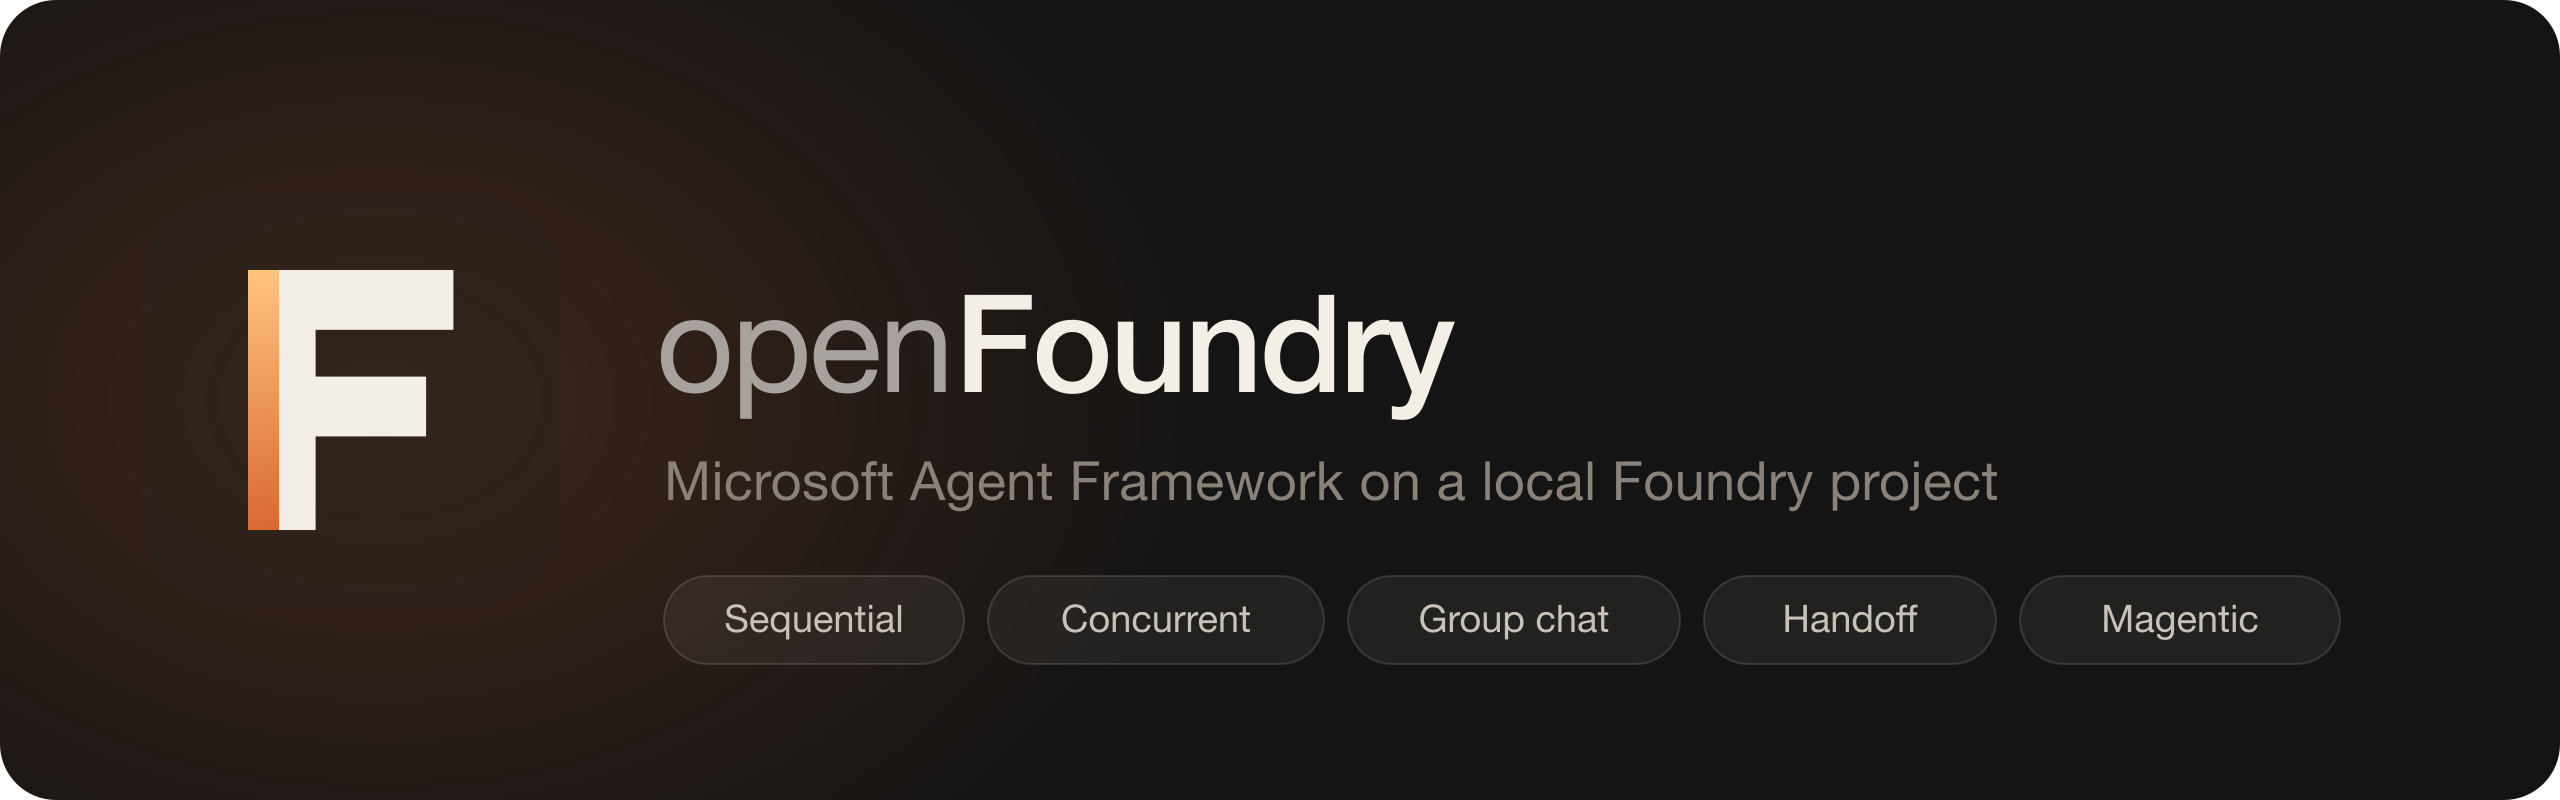
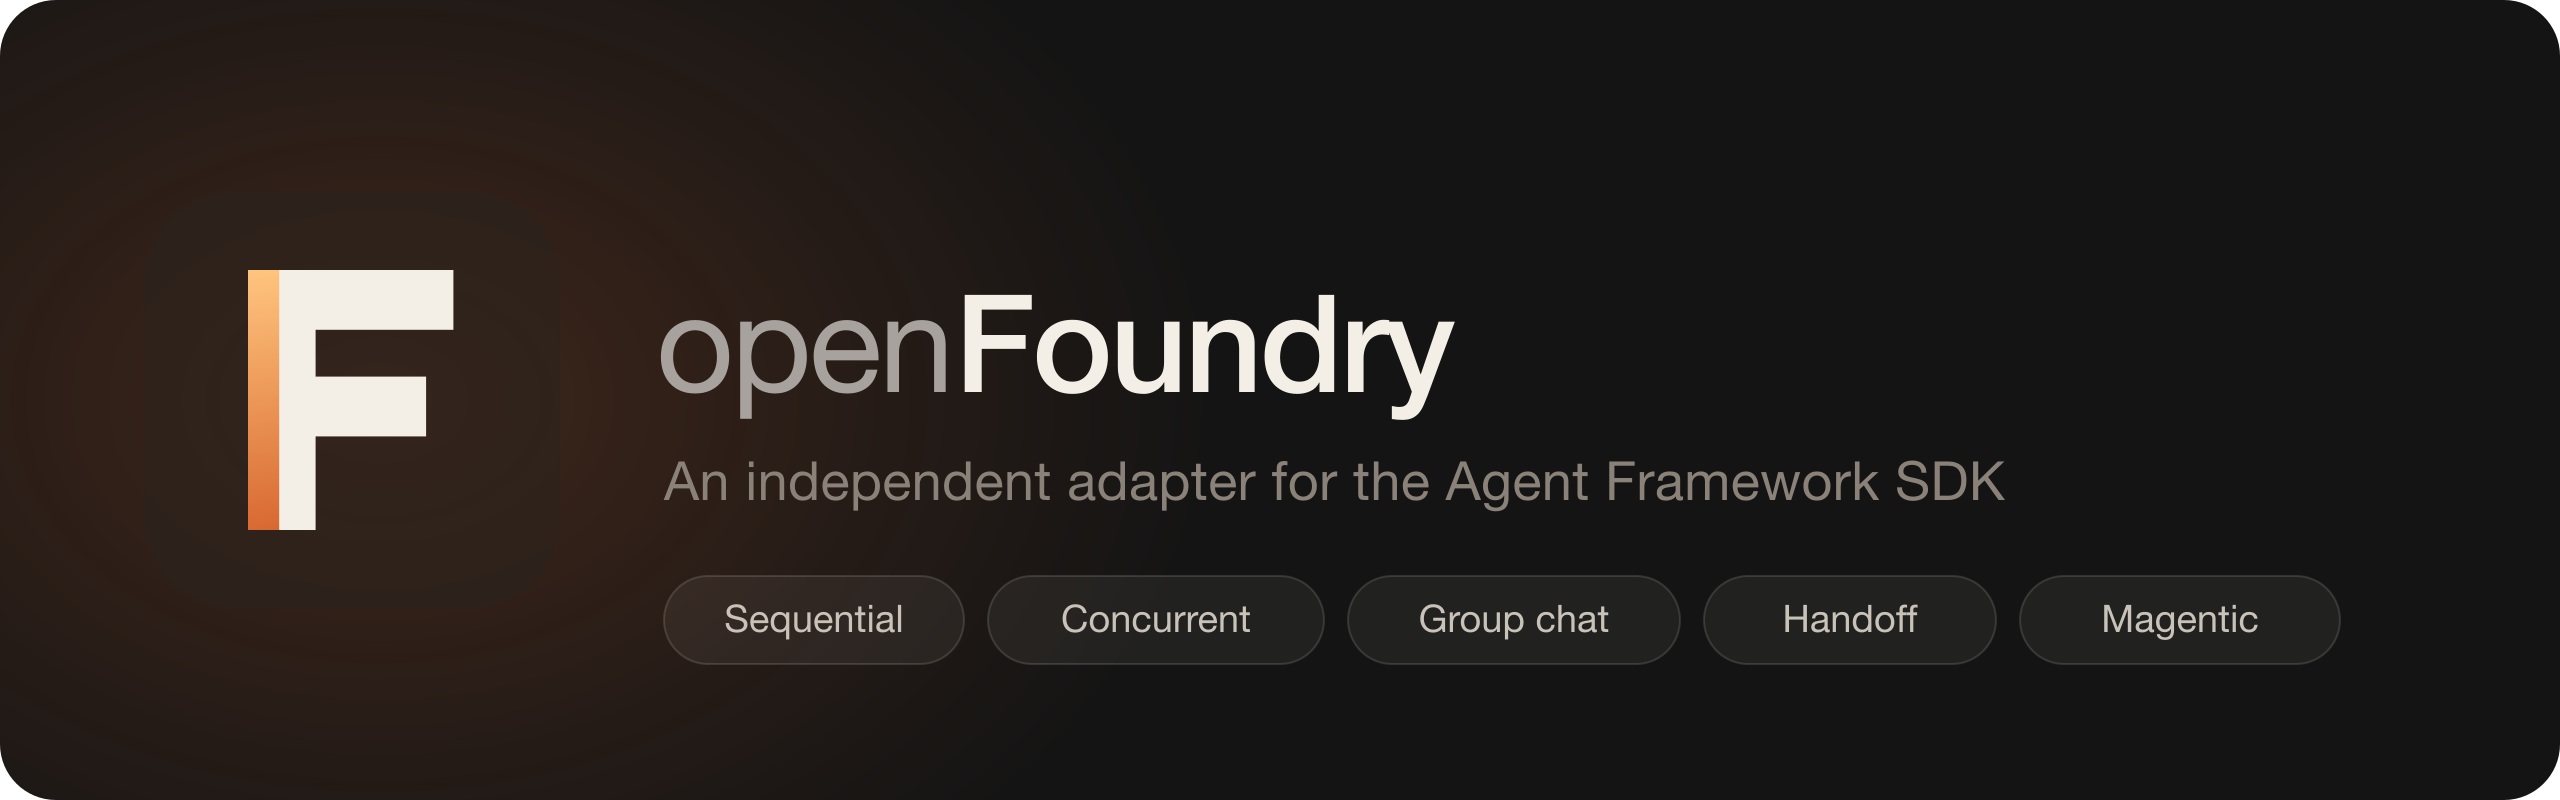
docs(sdk): state independence instead of leading with Microsoft
The PyPI page read as a Microsoft package: the tagline, banner and summary
all named Microsoft's Agent Framework first, and the disclaimer was buried
in the Limits section.

Keep the product name (agent-framework is genuinely Microsoft's official
SDK, and naming it is accurate), but make the relationship explicit above
the fold and in the PyPI summary. Bumps to 0.1.1 because published
metadata is immutable.

Changed region(s): [[0.25, 0.5625, 0.7812, 0.625]]

diff --git a/src/app/docs/page.tsx b/src/app/docs/page.tsx
@@ -279,9 +279,10 @@ with AIProjectClient(
           The official <span className="mono">agent-framework</span> Python SDK can
           use this project through{" "}
           <span className="mono">openfoundry-agent-framework</span> on PyPI
-          (<span className="mono">pip install openfoundry-agent-framework</span>), a
-          small helper package that presents the project API key as the bearer token
-          the SDK expects. The source lives in{" "}
+          (<span className="mono">pip install openfoundry-agent-framework</span>), an
+          independent adapter that presents the project API key as the bearer token
+          the SDK expects. It is not published by or affiliated with Microsoft. The
+          source lives in{" "}
           <span className="mono">sdk/python</span> with full documentation in{" "}
           <span className="mono">sdk/python/docs</span>.
         </p>

diff --git a/sdk/python/README.md b/sdk/python/README.md
@@ -5,8 +5,14 @@
 <h1 align="center">openfoundry-agent-framework</h1>
 
 <p align="center">
-  <strong>Run the official Microsoft Agent Framework SDK against a local openFoundry project.</strong><br>
+  <strong>An independent adapter that runs Microsoft's Agent Framework SDK against a local openFoundry project.</strong><br>
   No Azure subscription. No Entra tenant. No <code>az login</code>.
+</p>
+
+<p align="center">
+  <sub><strong>Not affiliated with, endorsed by, or sponsored by Microsoft.</strong>
+  This is a community package maintained by the openFoundry project; it wraps Microsoft's
+  official <code>agent-framework</code> package and is not published by Microsoft.</sub>
 </p>
 
 <p align="center">
@@ -18,13 +24,14 @@
 </p>
 
 <p align="center">
-  <img src="https://raw.githubusercontent.com/Sharjeelbaig/openFoundry/main/public/brand/openfoundry-pypi-banner.png" alt="openFoundry — Microsoft Agent Framework on a local Foundry project" width="820">
+  <img src="https://raw.githubusercontent.com/Sharjeelbaig/openFoundry/main/public/brand/openfoundry-pypi-banner.png" alt="openFoundry — an independent adapter for the Agent Framework SDK" width="820">
 </p>
 
 ---
 
-The official `agent-framework` SDK talks to a Foundry project through `FoundryChatClient`
-and `AIProjectClient`. Both expect a project endpoint and a `TokenCredential`.
+The `agent-framework` package is Microsoft's official SDK. It talks to a Foundry project
+through `FoundryChatClient` and `AIProjectClient`. Both expect a project endpoint and a
+`TokenCredential`.
 
 openFoundry serves those same project paths on loopback
 (`/api/projects/<project>/openai/v1`) and authenticates with a **project API key** that is

diff --git a/sdk/python/docs/index.md b/sdk/python/docs/index.md
@@ -4,10 +4,13 @@
 
 # openfoundry-agent-framework documentation
 
-`openfoundry-agent-framework` lets the official Microsoft Agent Framework Python SDK use a
+`openfoundry-agent-framework` lets Microsoft's official Agent Framework Python SDK use a
 local openFoundry project as its Foundry project. It supplies an `TokenCredential` that
 presents the project API key as a bearer token, plus a few factories for the common
 clients.
+
+This is an independent, community package. It is not published by, affiliated with, or
+endorsed by Microsoft; it wraps Microsoft's `agent-framework` package.
 
 The SDK itself is unchanged: `FoundryChatClient`, `Agent`, `FoundryAgent`, function tools,
 streaming, the Responses API and every orchestration builder run as they do against

diff --git a/README.md b/README.md
@@ -252,9 +252,10 @@ redistribute them.
 ## Python SDK
 
 The official Microsoft Agent Framework Python SDK can use an openFoundry project as its
-Foundry project. `openfoundry-agent-framework` supplies the credential that presents the
-project API key as a bearer token, so `FoundryChatClient`, `FoundryAgent` and every
-orchestration builder run locally without an Entra tenant:
+Foundry project. `openfoundry-agent-framework` — an independent adapter, not a Microsoft
+package — supplies the credential that presents the project API key as a bearer token, so
+`FoundryChatClient`, `FoundryAgent` and every orchestration builder run locally without an
+Entra tenant:
 
 ```bash
 pip install openfoundry-agent-framework

diff --git a/sdk/python/CHANGELOG.md b/sdk/python/CHANGELOG.md
@@ -6,6 +6,17 @@ All notable changes to `openfoundry-agent-framework` are recorded here. The form
 
 ## [Unreleased]
 
+## [0.1.1] - 2026-11-26
+
+### Changed
+
+- Independence is stated up front: the package is described as an independent adapter
+  that wraps Microsoft's `agent-framework`, not as a Microsoft package.
+- PyPI summary, README header and banner subtitle now name the Microsoft dependency
+  instead of leading with it, and the "not affiliated with Microsoft" notice sits above
+  the fold.
+- Documentation index repeats the independence statement.
+
 ## [0.1.0] - 2026-11-26
 
 First public release.
